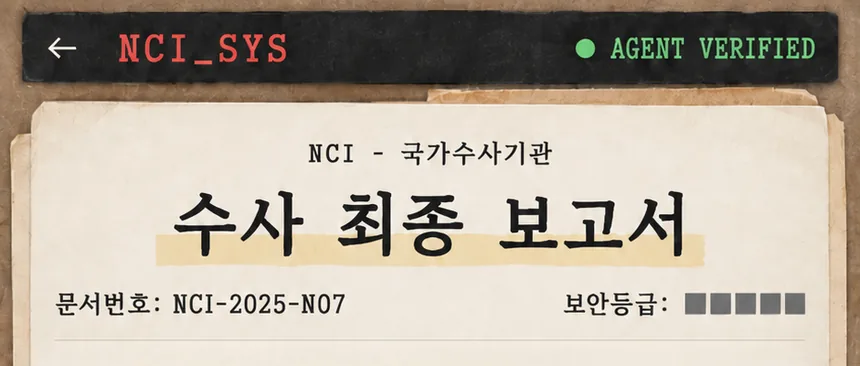
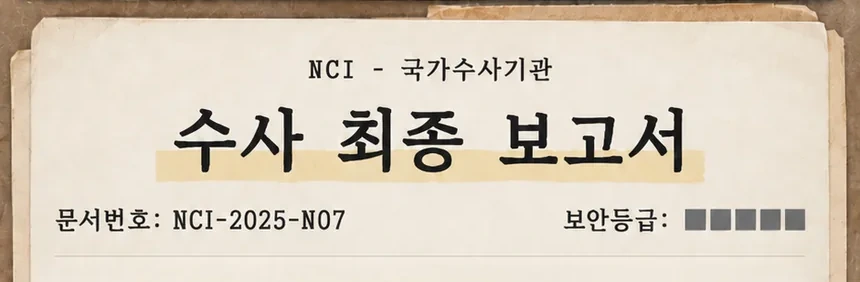
Remove leftover sci-fi header bar from final report screen
report_header.webp had the global NCI_SYS/AGENT VERIFIED black bar
baked into the top of the image, on top of an otherwise fully paper-
themed report (the global .topbar is correctly hidden on this screen,
but this was a second, separate sci-fi bar baked into the asset
itself). Cropped it out, keeping just the paper document portion, and
replaced the back arrow that was baked into the removed strip with a
plain "←" character styled to match the paper theme.

diff --git a/index.html b/index.html
@@ -810,12 +810,14 @@ body{font-family:'Share Tech Mono',monospace;background:#0a0a0a;color:#c8c8c0;mi
   overflow-y:visible;flex:none;
 }
 .report-head-spacer{
-  display:block;aspect-ratio:941/400;position:relative;
+  display:block;aspect-ratio:860/282;position:relative;
   background:url('assets/report_header.webp') center/100% 100% no-repeat;
 }
 .s8-back-overlay{
   position:absolute;top:0;left:0;width:26%;height:100%;
   background:transparent;border:none;cursor:pointer;z-index:20;padding:0;
+  font-size:22px;color:#3a2a1a;text-align:left;padding-left:6%;
+  display:flex;align-items:center;
 }
 #s8 .report-header{display:none;}
 #s8 .report-body{padding:18px 6% 0;}
@@ -1099,7 +1101,7 @@ body{font-family:'Share Tech Mono',monospace;background:#0a0a0a;color:#c8c8c0;mi
 <!-- S8: 최종 보고서 -->
 <div class="screen" id="s8">
 <div class="report-screen">
-<div class="report-head-spacer"><button class="s8-back-overlay" onclick="goBack()" aria-label="뒤로가기"></button></div>
+<div class="report-head-spacer"><button class="s8-back-overlay" onclick="goBack()" aria-label="뒤로가기">←</button></div>
 <div class="report-header">
   <div class="report-org">NCI — 국가수사기관</div>
   <div class="report-title">수사 최종 보고서</div>
